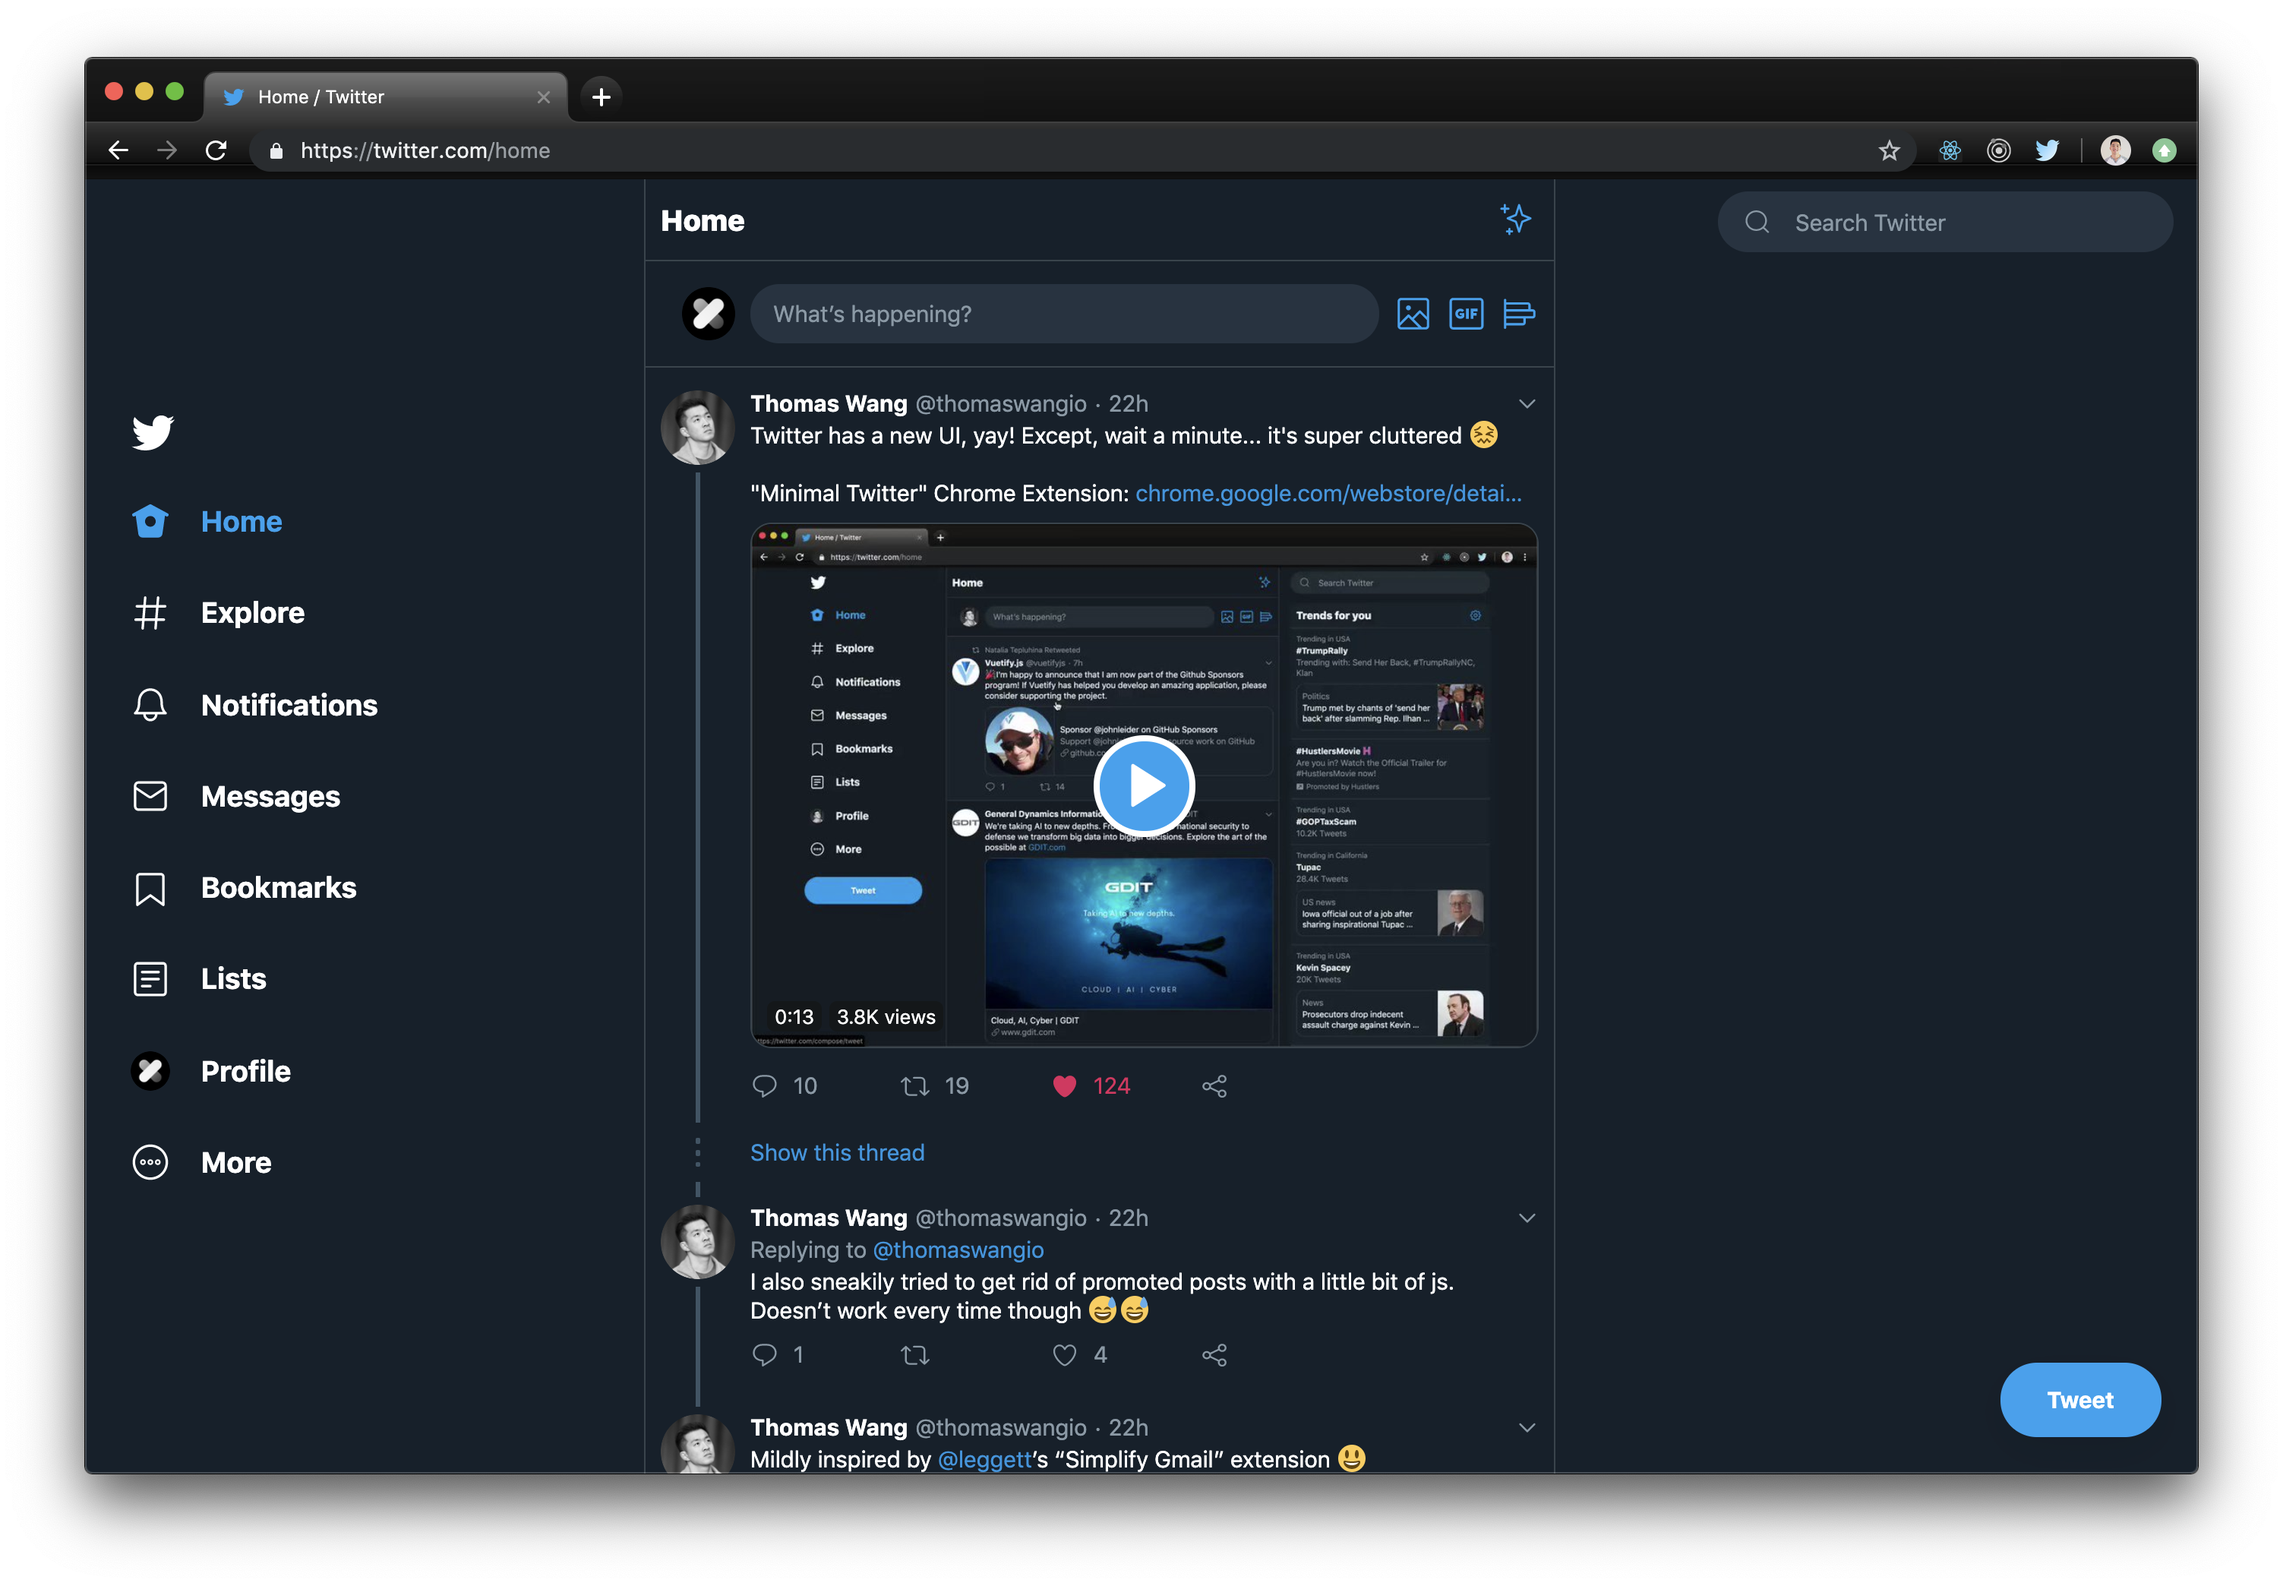
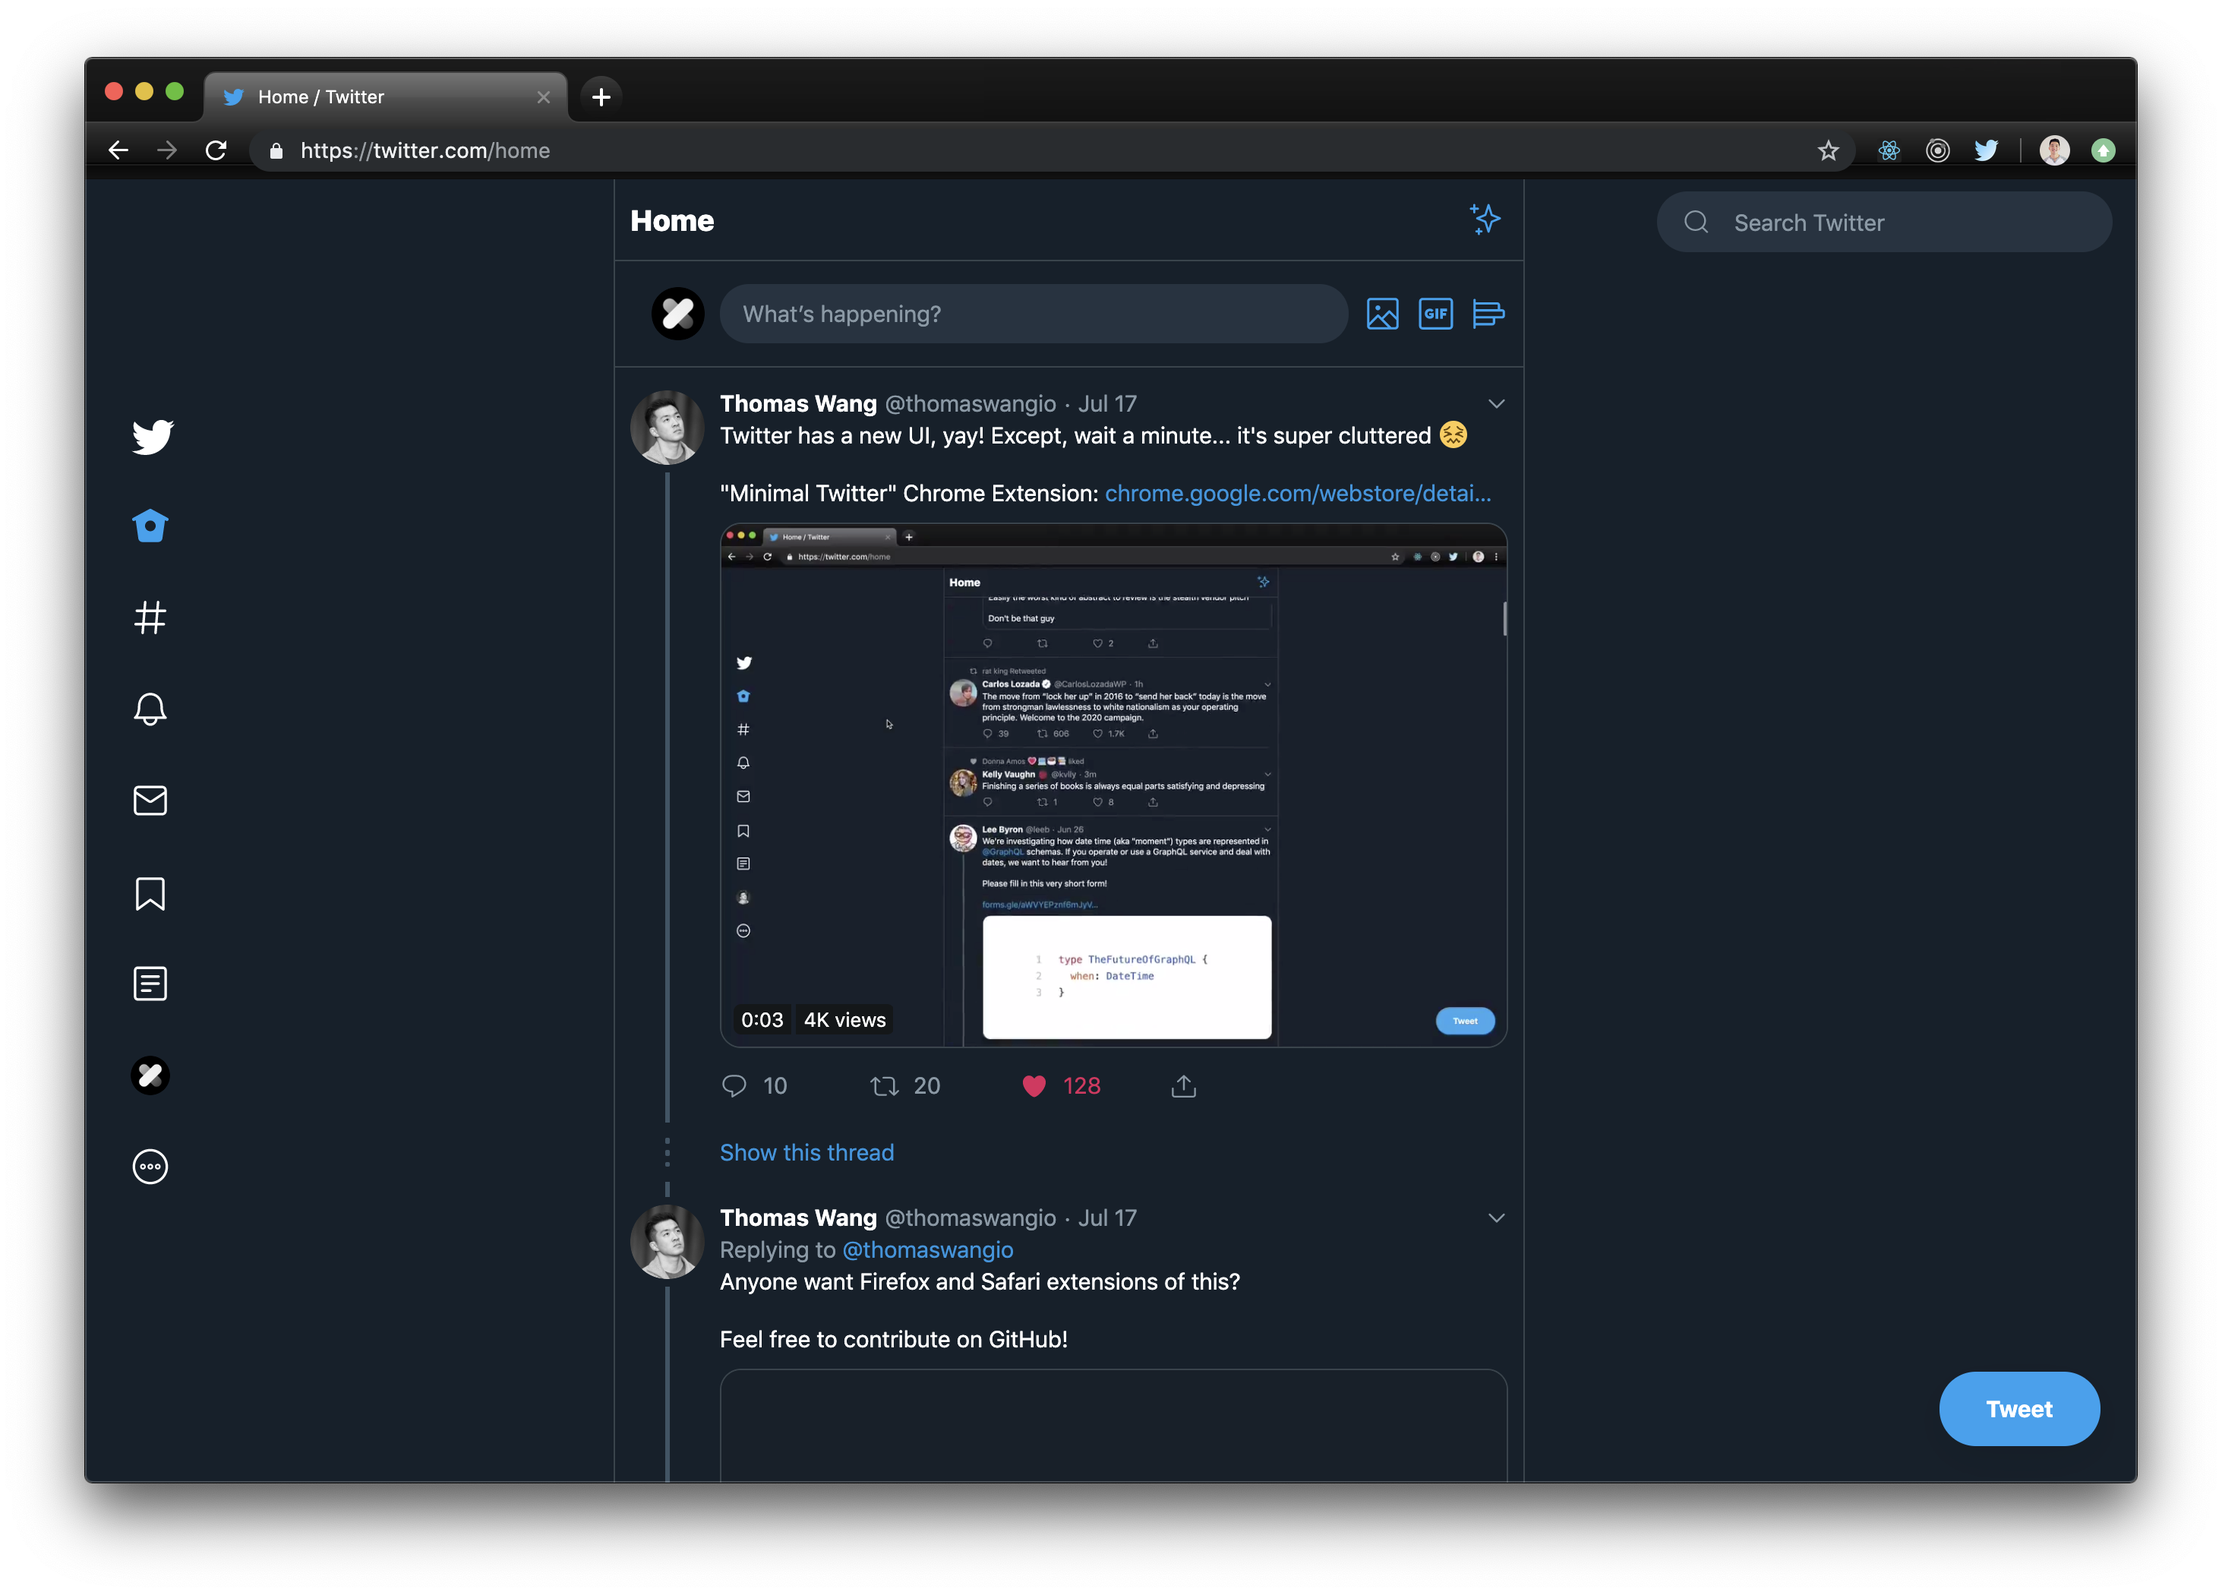
update screenshot and rm labels

diff --git a/chrome/minimal-twitter.css b/chrome/minimal-twitter.css
@@ -18,6 +18,11 @@ header[role="banner"] > div > div > div {
   justify-content: center !important;
 }
 
+nav[aria-label="Primary"][role="navigation"] > a > div > div:nth-child(2),
+nav[aria-label="Primary"][role="navigation"] > div > div > div:nth-child(2) {
+  display: none !important;
+}
+
 div[data-testid="sidebarColumn"] {
   visibility: hidden !important;
   width: 125px !important;
